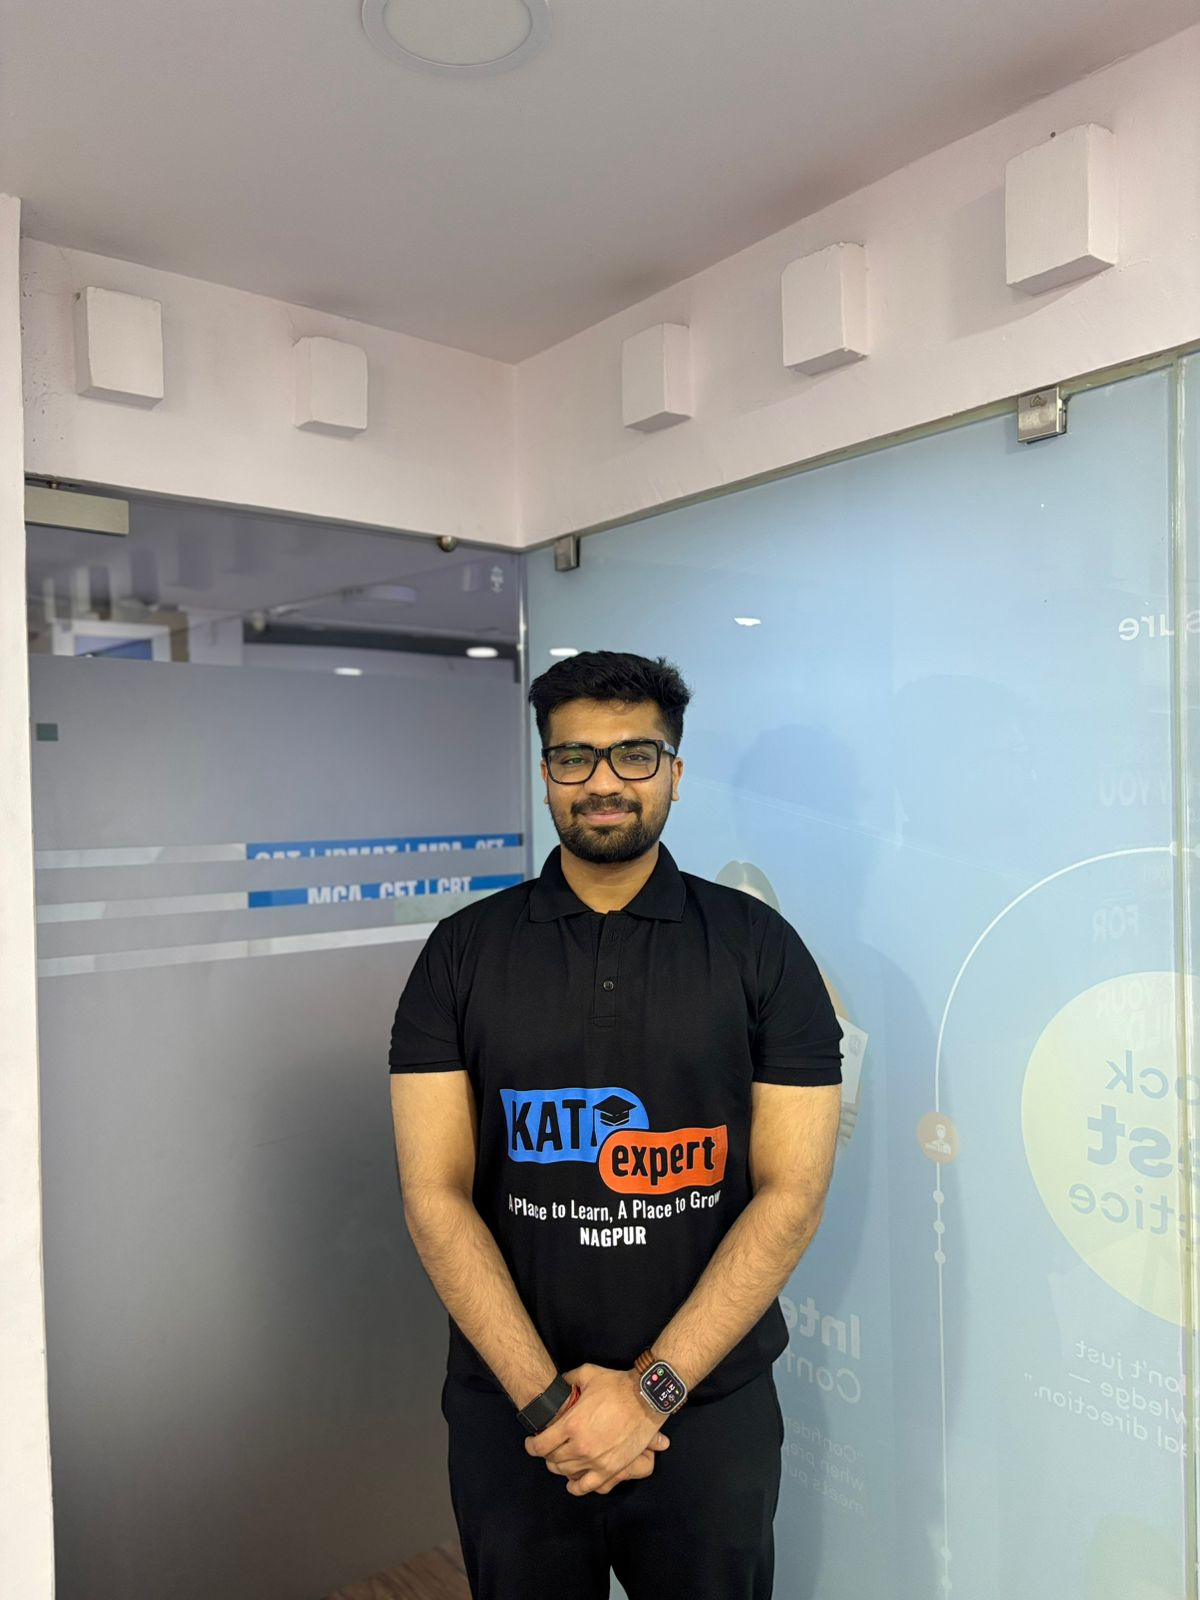
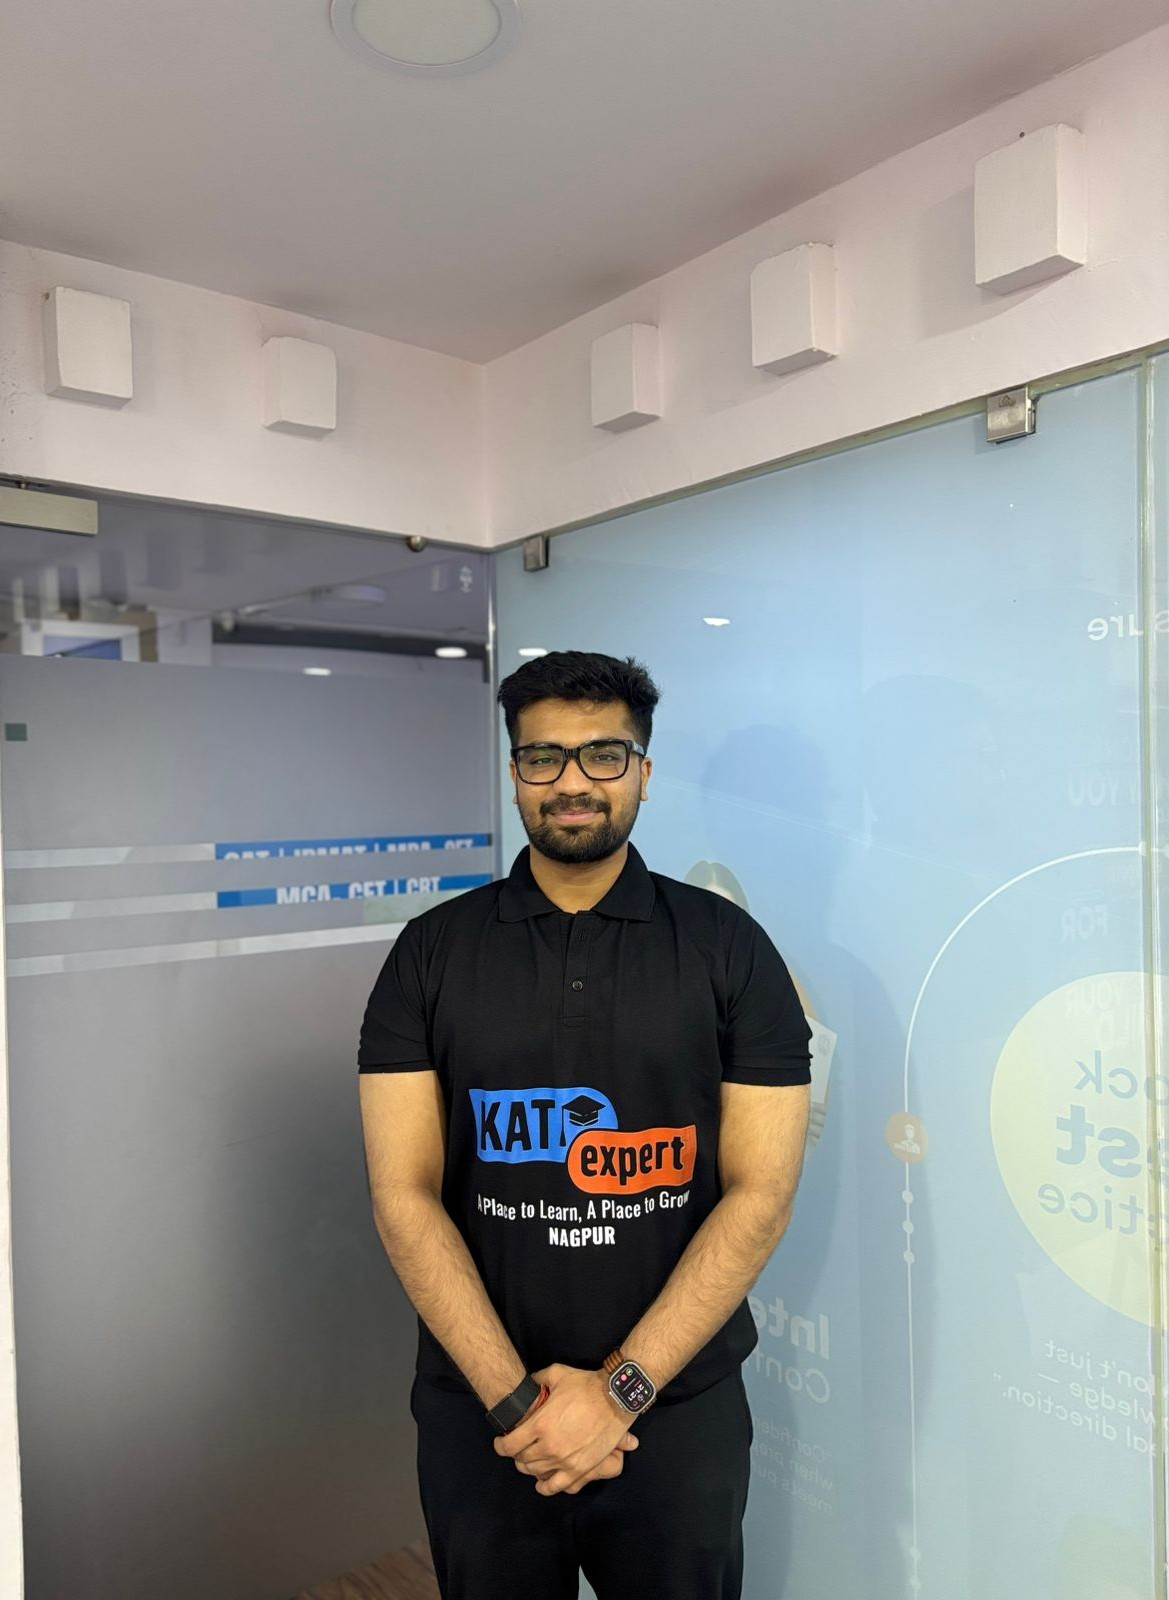
visual changes done

diff --git a/src/pages/AboutPage.jsx b/src/pages/AboutPage.jsx
@@ -40,7 +40,7 @@ const VIDEO_TESTIMONIALS = [
   {
     id: "abeer",
     youtubeId: "I1Z6BsYjHXk",
-    name: "Abeer Bhaiya",
+    name: "Preet Rajwade",
     exam: "CAT",
     college: "IIM Ahmedabad",
     score: "99.8%ile",
@@ -68,9 +68,9 @@ const VIDEO_TESTIMONIALS = [
     title: "Arpit's CET Success Story"
   },
   {
-    id: "tanishq",
+    id: "jay",
     youtubeId: "7WWzJHTznMs",
-    name: "Tanishq Chhajer",
+    name: " Jay",
     exam: "CAT",
     college: "IIM Bangalore",
     score: "99.6%ile",
@@ -90,7 +90,7 @@ const VIDEO_TESTIMONIALS = [
   {
     id: "why-love",
     youtubeId: "yYUONg1f-Sw",
-    name: "Priya S.",
+    name: "Darshan",
     exam: "CAT",
     college: "IIM Lucknow",
     score: "99.5%ile",
@@ -108,9 +108,9 @@ const VIDEO_TESTIMONIALS = [
     title: "Rupali's Success Story"
   },
   {
-    id: "comfort",
+    id: "Shimant",
     youtubeId: "5QxsWC1Jkz4",
-    name: "Aditya M.",
+    name: "Shimant",
     exam: "IPMAT",
     college: "IIM Rohtak",
     score: "AIR 47",
@@ -120,7 +120,7 @@ const VIDEO_TESTIMONIALS = [
   {
     id: "guidance",
     youtubeId: "Ns_tSPuYHAA",
-    name: "Sneha K.",
+    name: "Radhika",
     exam: "CRT",
     college: "TCS Digital",
     score: "Placed",
@@ -150,7 +150,7 @@ const VIDEO_TESTIMONIALS = [
   {
     id: "krish",
     youtubeId: "F1B35HJKOpM",
-    name: "Krish Sir's Batch",
+    name: "Krish Sir",
     exam: "CAT",
     college: "Multiple IIMs",
     score: "99+%ile",
@@ -160,7 +160,7 @@ const VIDEO_TESTIMONIALS = [
   {
     id: "arumita",
     youtubeId: "4F12hXxDKr4",
-    name: "Arumita Ma'am's Batch",
+    name: "Arumita Ma'am",
     exam: "IPMAT",
     college: "IIM Indore & Rohtak",
     score: "Top Ranks",
@@ -452,10 +452,10 @@ export default function AboutPage() {
       <div className="max-w-7xl mx-auto px-4 sm:px-6 lg:px-8">
         
         {/* Back Button */}
-        <div className="mb-6 flex justify-start">
+        <div className="mb-2 flex justify-start">
           <Link
             to="/"
-            className="inline-flex items-center gap-2 rounded-xl border border-slate-200 bg-white px-4 py-2 text-xs font-bold text-brand-blue hover:text-brand-orange hover:border-brand-orange/30 shadow-sm transition-all hover:scale-101"
+            className="inline-flex items-center gap-2 rounded-xl border border-slate-200 bg-white px-4 py-2 text-xs font-bold text-brand-blue hover:text-brand-orange hover:border-brand-orange/30 shadow-sm transition-all hover:scale-101 mt-10"
             id="about-back-to-home-btn"
           >
             <ArrowLeft className="h-4 w-4" />
@@ -471,7 +471,7 @@ export default function AboutPage() {
               <button
                 key={tab.id}
                 onClick={() => setActiveTab(tab.id)}
-                className={`px-4 py-2 sm:px-5 sm:py-2.5 rounded-xl text-sm font-bold tracking-wide transition-all duration-200 cursor-pointer ${
+                className={`px-4 py-2 sm:px-5 sm:py-2 rounded-xl text-sm font-bold tracking-wide transition-all duration-200 cursor-pointer ${
                   isActive
                     ? 'bg-brand-blue text-white shadow-lg shadow-brand-blue/15 scale-102'
                     : 'text-brand-blue hover:bg-slate-100 hover:scale-101'

diff --git a/src/lib/testimonials.js b/src/lib/testimonials.js
@@ -1,6 +1,6 @@
 export const testimonials = [
   {
-    id: "abeer",
+    id: "preet",
     youtubeId: "I1Z6BsYjHXk",
     isShort: true,
     name: "Preet Rajwade",
@@ -12,7 +12,7 @@ export const testimonials = [
     quote: "KATexpert gave me the structure I needed to convert my CAT dream into reality.",
   },
   {
-    id: "khushi",
+    id: "vanshita",
     youtubeId: "RUch3M7DeR0",
     isShort: true,
     name: "Vanshita Patel",
@@ -36,7 +36,7 @@ export const testimonials = [
     quote: "From average scores to a top JBIMS seat — the KATexpert grind changed everything.",
   },
   {
-    id: "tanishq",
+    id: "jay",
     youtubeId: "7WWzJHTznMs",
     isShort: true,
     name: "Jay",
@@ -60,7 +60,7 @@ export const testimonials = [
     quote: "Consistent mocks and honest feedback — that's the KATexpert formula.",
   },
   {
-    id: "why-love",
+    id: "darshan",
     youtubeId: "yYUONg1f-Sw",
     isShort: true,
     name: "Darshan",
@@ -84,10 +84,10 @@ export const testimonials = [
     quote: "Personal attention that big institutes just can't offer.",
   },
   {
-    id: "comfort",
+    id: "shimant",
     youtubeId: "5QxsWC1Jkz4",
     isShort: true,
-    name: "Shrimant",
+    name: "Shimant",
     exam: "",
     college: "",
     score: "",
@@ -96,7 +96,7 @@ export const testimonials = [
     quote: "The environment lets you ask the silliest question without hesitation.",
   },
   {
-    id: "guidance",
+    id: "radhika",
     youtubeId: "Ns_tSPuYHAA",
     isShort: true,
     name: "Radhika",